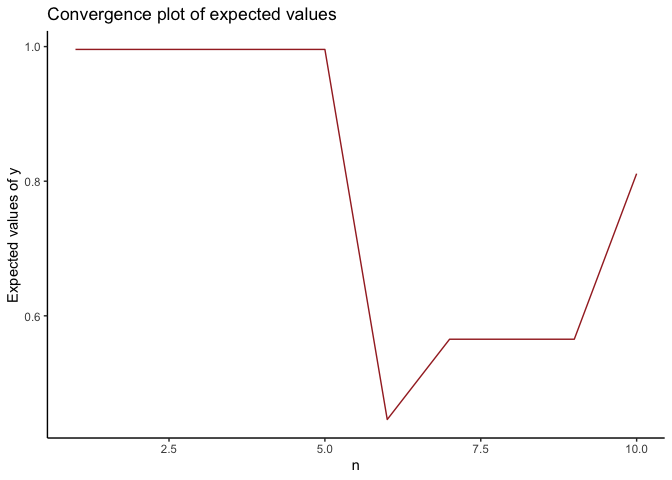
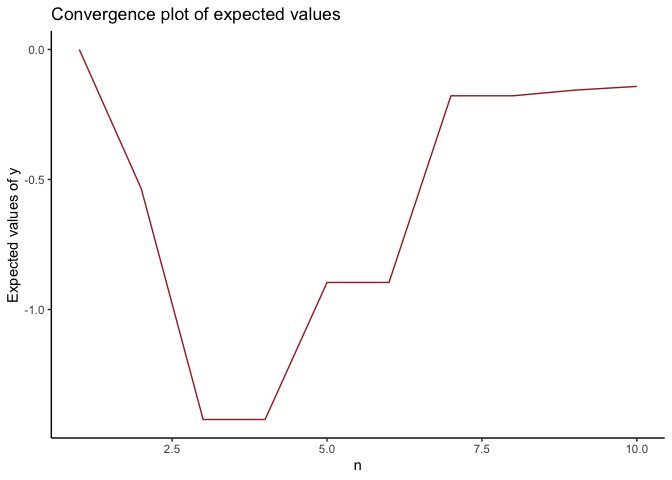
Modification to the plot functions.

diff --git a/README.md b/README.md
@@ -93,26 +93,26 @@ ar_print(example_norm_unif)
 #> 
 #> 
 #> $data
-#>    index          x           f     q          y          r          u
-#> 1      1  0.9957999 0.242987024 0.125  0.9957999 0.60746756 0.01760016
-#> 2      2  3.4514598 0.001033064 0.125         NA 0.00258266 0.36711522
-#> 3      3  2.7272060 0.009679308 0.125         NA 0.02419827 0.34499554
-#> 4      4  2.1678170 0.038057629 0.125         NA 0.09514407 0.31578285
-#> 5      5 -1.4372958 0.142011362 0.125         NA 0.35502840 0.52685070
-#> 6      6 -0.1039041 0.396794581 0.125 -0.1039041 0.99198645 0.64931493
-#> 7      7  0.8037927 0.288811844 0.125  0.8037927 0.72202961 0.27479228
-#> 8      8 -1.0265819 0.235540176 0.125         NA 0.58885044 0.72476675
-#> 9      9  2.4775815 0.018534089 0.125         NA 0.04633522 0.52195874
-#> 10    10  1.5491069 0.120175193 0.125  1.5491069 0.30043798 0.21321169
+#>    index           x           f     q           y          r           u
+#> 1      1  2.23016545 0.033181676 0.125          NA 0.08295419 0.649477553
+#> 2      2 -0.53463665 0.345813140 0.125 -0.53463665 0.86453285 0.441337788
+#> 3      3 -2.31113649 0.027608972 0.125 -2.31113649 0.06902243 0.004346638
+#> 4      4  2.98233924 0.004672261 0.125          NA 0.01168065 0.576691087
+#> 5      5  0.15781470 0.394005160 0.125  0.15781470 0.98501290 0.687093787
+#> 6      6 -2.51275382 0.016976854 0.125          NA 0.04244213 0.440774988
+#> 7      7  1.97478656 0.056765331 0.125  1.97478656 0.14191333 0.115812211
+#> 8      8 -2.85929873 0.006692732 0.125          NA 0.01673183 0.536986188
+#> 9      9 -0.06950995 0.397979672 0.125 -0.06950995 0.99494918 0.132610541
+#> 10    10 -0.07057297 0.397950042 0.125 -0.07057297 0.99487510 0.852391060
 #> 
 #> $acceptance_rate
-#> [1] 0.4
+#> [1] 0.6
 #> 
 #> $expected_values_f
-#> [1] 0.8111989
+#> [1] -0.1422091
 #> 
 #> $variance_f
-#> [1] 0.472018
+#> [1] 1.888069
 #> 
 #> $suggested_c
 #> [1] "NA"
@@ -124,9 +124,9 @@ ar_summary(example_norm_unif)
 #> Summary of  example_norm_unif :
 #> ----------------------
 #>      Number of iterations:  10 
-#>      Acceptance rate:  0.4 
-#>      Empirical expected value of target distribution:  0.8112 
-#>      Empirical variance of target distribution:  0.472 
+#>      Acceptance rate:  0.6 
+#>      Empirical expected value of target distribution:  -0.1422 
+#>      Empirical variance of target distribution:  1.8881 
 #>      Suggested minimum c:  NA 
 #> ----------------------
 ```
@@ -163,26 +163,26 @@ print(example_norm_unif)
 #> 
 #> 
 #> $data
-#>    index          x           f     q          y          r          u
-#> 1      1  0.9957999 0.242987024 0.125  0.9957999 0.60746756 0.01760016
-#> 2      2  3.4514598 0.001033064 0.125         NA 0.00258266 0.36711522
-#> 3      3  2.7272060 0.009679308 0.125         NA 0.02419827 0.34499554
-#> 4      4  2.1678170 0.038057629 0.125         NA 0.09514407 0.31578285
-#> 5      5 -1.4372958 0.142011362 0.125         NA 0.35502840 0.52685070
-#> 6      6 -0.1039041 0.396794581 0.125 -0.1039041 0.99198645 0.64931493
-#> 7      7  0.8037927 0.288811844 0.125  0.8037927 0.72202961 0.27479228
-#> 8      8 -1.0265819 0.235540176 0.125         NA 0.58885044 0.72476675
-#> 9      9  2.4775815 0.018534089 0.125         NA 0.04633522 0.52195874
-#> 10    10  1.5491069 0.120175193 0.125  1.5491069 0.30043798 0.21321169
+#>    index           x           f     q           y          r           u
+#> 1      1  2.23016545 0.033181676 0.125          NA 0.08295419 0.649477553
+#> 2      2 -0.53463665 0.345813140 0.125 -0.53463665 0.86453285 0.441337788
+#> 3      3 -2.31113649 0.027608972 0.125 -2.31113649 0.06902243 0.004346638
+#> 4      4  2.98233924 0.004672261 0.125          NA 0.01168065 0.576691087
+#> 5      5  0.15781470 0.394005160 0.125  0.15781470 0.98501290 0.687093787
+#> 6      6 -2.51275382 0.016976854 0.125          NA 0.04244213 0.440774988
+#> 7      7  1.97478656 0.056765331 0.125  1.97478656 0.14191333 0.115812211
+#> 8      8 -2.85929873 0.006692732 0.125          NA 0.01673183 0.536986188
+#> 9      9 -0.06950995 0.397979672 0.125 -0.06950995 0.99494918 0.132610541
+#> 10    10 -0.07057297 0.397950042 0.125 -0.07057297 0.99487510 0.852391060
 #> 
 #> $acceptance_rate
-#> [1] 0.4
+#> [1] 0.6
 #> 
 #> $expected_values_f
-#> [1] 0.8111989
+#> [1] -0.1422091
 #> 
 #> $variance_f
-#> [1] 0.472018
+#> [1] 1.888069
 #> 
 #> $suggested_c
 #> [1] "NA"
@@ -194,9 +194,9 @@ summary(example_norm_unif)
 #> Summary of  example_norm_unif :
 #> ----------------------
 #>      Number of iterations:  10 
-#>      Acceptance rate:  0.4 
-#>      Empirical expected value of target distribution:  0.8112 
-#>      Empirical variance of target distribution:  0.472 
+#>      Acceptance rate:  0.6 
+#>      Empirical expected value of target distribution:  -0.1422 
+#>      Empirical variance of target distribution:  1.8881 
 #>      Suggested minimum c:  NA 
 #> ----------------------
 ```
@@ -225,17 +225,17 @@ ar_print(example_norm_unif_conv)
 #> Convergence data of  example_norm_unif_conv :
 #> 
 #> $data
-#>    index acceptance_rate_cumulative          y mean_cumulative var_cumulative
-#> 1      1                  1.0000000  0.9957999       0.9957999      0.9957999
-#> 2      2                  0.5000000         NA       0.9957999      0.9957999
-#> 3      3                  0.3333333         NA       0.9957999      0.9957999
-#> 4      4                  0.2500000         NA       0.9957999      0.9957999
-#> 5      5                  0.2000000         NA       0.9957999      0.9957999
-#> 6      6                  0.3333333 -0.1039041       0.4459479      0.6046744
-#> 7      7                  0.4285714  0.8037927       0.5652295      0.3450215
-#> 8      8                  0.3750000         NA       0.5652295      0.3450215
-#> 9      9                  0.3333333         NA       0.5652295      0.3450215
-#> 10    10                  0.4000000  1.5491069       0.8111989      0.4720180
+#>    index acceptance_rate_cumulative           y mean_cumulative var_cumulative
+#> 1      1                  0.0000000          NA       0.0000000       0.000000
+#> 2      2                  0.5000000 -0.53463665      -0.5346367       0.000000
+#> 3      3                  0.6666667 -2.31113649      -1.4228866       1.577976
+#> 4      4                  0.5000000          NA      -1.4228866       1.577976
+#> 5      5                  0.6000000  0.15781470      -0.8959861       1.621860
+#> 6      6                  0.5000000          NA      -0.8959861       1.621860
+#> 7      7                  0.5714286  1.97478656      -0.1782930       3.141574
+#> 8      8                  0.5000000          NA      -0.1782930       3.141574
+#> 9      9                  0.5555556 -0.06950995      -0.1565364       2.358547
+#> 10    10                  0.6000000 -0.07057297      -0.1422091       1.888069
 ```
 
 ``` r
@@ -243,9 +243,9 @@ ar_print(example_norm_unif_conv)
 ar_summary(example_norm_unif_conv)
 #> Convergence summary of  example_norm_unif_conv :
 #> ----------------------
-#>      Acceptance rate:  0.4 
-#>      Empirical expected value of target distribution:  0.8112 
-#>      Empirical variance of target distribution:  0.472 
+#>      Acceptance rate:  0.6 
+#>      Empirical expected value of target distribution:  -0.1422 
+#>      Empirical variance of target distribution:  1.8881 
 #> ----------------------
 ```
 
@@ -448,10 +448,10 @@ fully (tested using `expect_match()`, since `NA` is returned as a
 string).
 
 The second part of the test file is regarding the peer review feedback,
-which is to check the value of *c* entered. The function will not accept
-value of *c* if it is $\le 1$ or Inf, therefore this part of the test
-checks whether the value of *c* is valid. The third part of the test
-file is regarding the value of *n*. *n* needs to be $\ge 1$ and if it is
+which is to check the value of `c` entered. The function will not accept
+value of `c` if it is $\le 1$ or Inf, therefore this part of the test
+checks whether the value of `c` is valid. The third part of the test
+file is regarding the value of `n`. `n` needs to be $\ge 1$ and if it is
 decimals (but still $\ge 1$) it will be rounded mathematically.
 
 The fourth and the final part of the tests check the output of the
@@ -578,8 +578,8 @@ using the instruction on the step **Test plan: user input**.
 
 ### Modified test plan based on feedback from peer review
 
-The feedback from peer review indicates that the value of *c*, when
-entered, is not checked. As a result, user can enter *c* values as
+The feedback from peer review indicates that the value of `c`, when
+entered, is not checked. As a result, user can enter `c` values as
 $\le 1$ or Inf without getting any error messages. This problem has
 since been addressed and the test is included in the file `test-ar.R`,
 in this following lines:
@@ -634,8 +634,8 @@ summary(example_norm)
 #> ----------------------
 #>      Number of iterations:  1000 
 #>      Acceptance rate:  1 
-#>      Empirical expected value of target distribution:  -0.0409 
-#>      Empirical variance of target distribution:  0.9759 
+#>      Empirical expected value of target distribution:  0.0393 
+#>      Empirical variance of target distribution:  1.0593 
 #>      Suggested minimum c:  NA 
 #> ----------------------
 ```
@@ -651,8 +651,8 @@ summary(example_unif)
 #> ----------------------
 #>      Number of iterations:  1000 
 #>      Acceptance rate:  1 
-#>      Empirical expected value of target distribution:  0.5056 
-#>      Empirical variance of target distribution:  0.0834 
+#>      Empirical expected value of target distribution:  0.5038 
+#>      Empirical variance of target distribution:  0.0777 
 #>      Suggested minimum c:  NA 
 #> ----------------------
 ```
@@ -668,8 +668,8 @@ summary(example_gamma)
 #> ----------------------
 #>      Number of iterations:  1000 
 #>      Acceptance rate:  1 
-#>      Empirical expected value of target distribution:  1.4778 
-#>      Empirical variance of target distribution:  0.678 
+#>      Empirical expected value of target distribution:  1.5283 
+#>      Empirical variance of target distribution:  0.7964 
 #>      Suggested minimum c:  NA 
 #> ----------------------
 ```
@@ -685,7 +685,7 @@ summary(example_beta)
 #> ----------------------
 #>      Number of iterations:  1000 
 #>      Acceptance rate:  1 
-#>      Empirical expected value of target distribution:  0.6017 
+#>      Empirical expected value of target distribution:  0.6013 
 #>      Empirical variance of target distribution:  0.0402 
 #>      Suggested minimum c:  NA 
 #> ----------------------
@@ -702,8 +702,8 @@ summary(example_exp)
 #> ----------------------
 #>      Number of iterations:  1000 
 #>      Acceptance rate:  1 
-#>      Empirical expected value of target distribution:  0.3456 
-#>      Empirical variance of target distribution:  0.1225 
+#>      Empirical expected value of target distribution:  0.3495 
+#>      Empirical variance of target distribution:  0.1234 
 #>      Suggested minimum c:  NA 
 #> ----------------------
 ```
@@ -762,9 +762,9 @@ summary(example_norm_unif)
 #> Summary of  example_norm_unif :
 #> ----------------------
 #>      Number of iterations:  10000 
-#>      Acceptance rate:  0.5027 
-#>      Empirical expected value of target distribution:  0.0034 
-#>      Empirical variance of target distribution:  1.5895 
+#>      Acceptance rate:  0.5095 
+#>      Empirical expected value of target distribution:  -0.0143 
+#>      Empirical variance of target distribution:  1.5599 
 #>      Suggested minimum c:  3.1915 
 #> ----------------------
 ```
@@ -785,9 +785,9 @@ summary(example_norm_unif)
 #> Summary of  example_norm_unif :
 #> ----------------------
 #>      Number of iterations:  10000 
-#>      Acceptance rate:  0.3105 
-#>      Empirical expected value of target distribution:  -0.0061 
-#>      Empirical variance of target distribution:  1.0237 
+#>      Acceptance rate:  0.3168 
+#>      Empirical expected value of target distribution:  0.0074 
+#>      Empirical variance of target distribution:  1.0092 
 #>      Suggested minimum c:  NA 
 #> ----------------------
 ```
